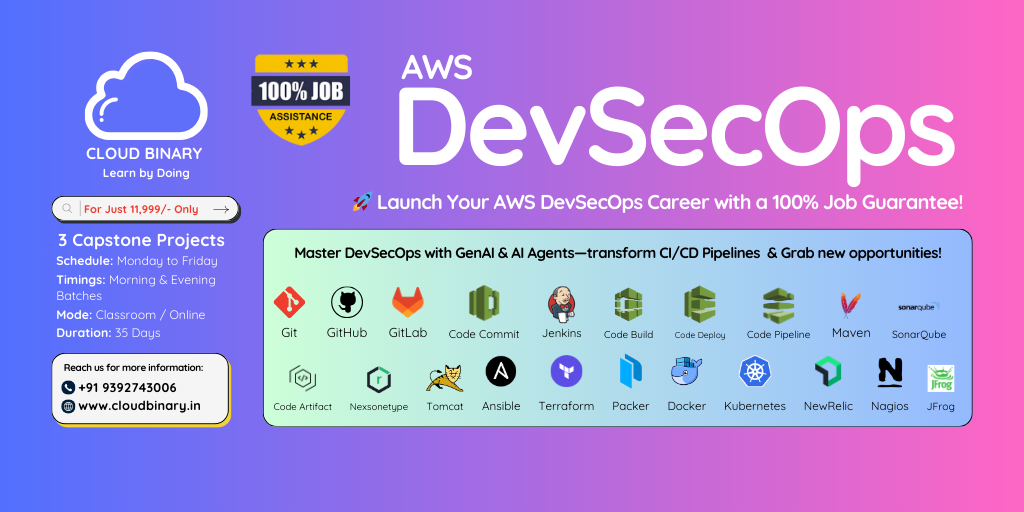
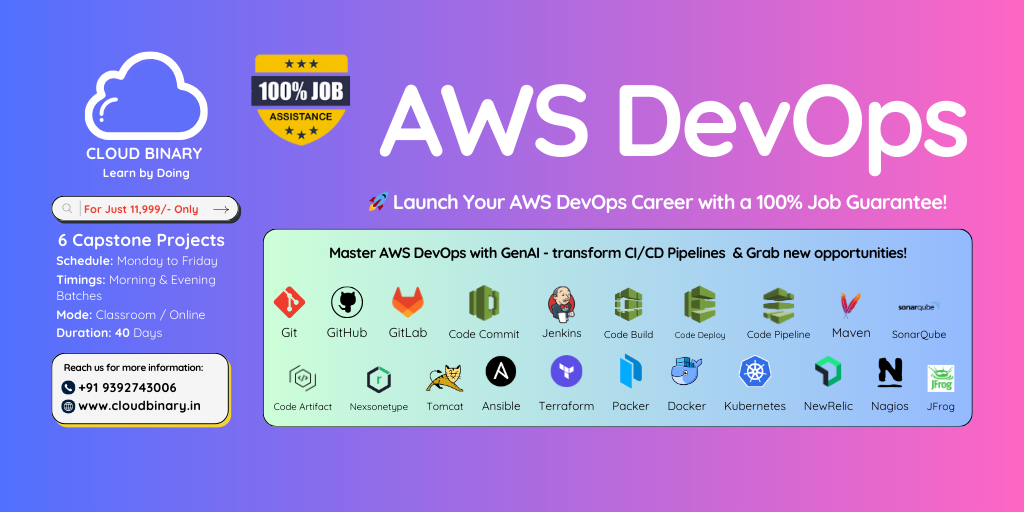
dev

Changed region(s): [[0.3438, 0.0938, 0.9688, 0.4375], [0.2812, 0.4688, 0.9375, 0.5312], [0.0938, 0.625, 0.1562, 0.6562]]

diff --git a/src/app/modules/public-ui/components/home-page-new/page1.html b/src/app/modules/public-ui/components/home-page-new/page1.html
@@ -25,22 +25,22 @@ background: url('assets/hybrid-learning/bg3.png') center center / cover no-repea
 
         <!-- Container 2 with Message -->
         <div class="container">
-            <!-- <h1>AWS DevOps Online Training Course for 9,999/-</h1><br> -->
+            <h1>AWS DevOps</h1><br>
             <!-- <h1>Skills. Connections. Success.</h1> -->
-            <h2>Welcome to the Data Age! 🚀</h2>
+            <!-- <h2>Welcome to the Data Age! 🚀</h2> -->
             <!-- <h3><strong style="color: orangered">30th March 2024, 10am IST</strong></h3> -->
-            <!-- <h1><strong style="color: orangered">Enroll Now For Just ₹9,999/-</strong></h1> -->
+            <h1><strong style="color: orangered">Enroll Now For Just ₹11,999/-</strong></h1>
             <ul>
                 <!-- <p>Become an AWS Certified DevOps Engineer - Professional <strong style="color: orangered"> <b>in just 6 months!</b></strong> Earn certifications: Cloud Practitioner, AI Practitioner, SysOps Admin, Developer, Solutions Architect, Data Engineer, ML, Advanced Networking, and Security.</p> -->
                <br>
-               <p> It’s time to seize the opportunity to become a Data Analyst, master the art of speaking to data, and drive organizational growth through powerful data analysis. 
+               <!-- <p> It’s time to seize the opportunity to become a Data Analyst, master the art of speaking to data, and drive organizational growth through powerful data analysis. 
                 <br>
                 <br>
-                Let’s turn insights into impact—your journey starts here!</p>
+                Let’s turn insights into impact—your journey starts here!</p> -->
                 <!-- <p>Become a Cloud Administrator, Developer, Architect, DevOps, MLOps, AI, Security, or Network Engineer in just 3 months.</p> -->
 
                 <!-- <li>Enroll in our AWS DevOps Online Training Course today for a streamlined pathway to success!</li> -->
-                <!-- <p>Our Classroom & Online cloud-skills training program will help you launch your career as a Cloud, DevSecOps, MLOps, AiOps, Engineer in as little as six months, regardless of your technical background</p> -->
+                <p>Our Online cloud-skills training program will help you launch your career as a Cloud, DevSecOps, MLOps, AiOps, Engineer in as little as six months, regardless of your technical background</p>
                 <!-- <li>Our virtual cloud-skills training program will help you launch your career as a Cloud, DevOps, MLOps Engineer in as little as six months, regardless of your technical background.</li> -->
               </ul>
             <div class="button-container">

diff --git a/src/app/components/footer-col/footer-col.component.html b/src/app/components/footer-col/footer-col.component.html
@@ -83,16 +83,16 @@ What is Generative AI?<br>
               <a  [routerLink]="['/aws']" routerLinkActive="router-link-active">AWS</a>
             </li>
             <li class="menu-item menu-item-type-taxonomy menu-item-object-category">
-              <a  [routerLink]="['/devsecops']" routerLinkActive="router-link-active">DevSecOps</a>
+              <a  [routerLink]="['/devsecops']" routerLinkActive="router-link-active">DevOps</a>
             </li>
             
-            <li class="menu-item menu-item-type-taxonomy menu-item-object-category">
+            <!-- <li class="menu-item menu-item-type-taxonomy menu-item-object-category">
               <a  [routerLink]="['/data-analyst']" routerLinkActive="router-link-active">Data Analyst</a>
-            </li>
-            <li class="menu-item menu-item-type-post_type menu-item-object-page">
+            </li> -->
+            <!-- <li class="menu-item menu-item-type-post_type menu-item-object-page"> -->
               <!-- <a [routerLink]="['/contactus']" routerLinkActive="router-link-active">Contact</a> -->
-              <a [routerLink]="['/data-science']" routerLinkActive="router-link-active" style="color: #38b6ff;">Data Science</a>
-            </li>
+              <!-- <a [routerLink]="['/data-science']" routerLinkActive="router-link-active" style="color: #38b6ff;">Data Science</a>
+            </li> -->
             <!-- <li class="menu-item menu-item-type-post_type menu-item-object-page">
               <a href="#">Careers</a>
             </li> -->
@@ -122,9 +122,9 @@ What is Generative AI?<br>
             <li class="menu-item menu-item-type-custom menu-item-object-custom">
 
               <a   [routerLink]="['/aws']" routerLinkActive="router-link-active">AWS |  </a>
-              <a   [routerLink]="['/devsecops']" routerLinkActive="router-link-active">DevSecOps |  </a>
-              <a   [routerLink]="['/data-analyst']" routerLinkActive="router-link-active" style="color: #38b6ff;">Data Analyst  | </a>
-              <a   [routerLink]="['/data-science']" routerLinkActive="router-link-active" style="color: #38b6ff;">Data Science</a>
+              <a   [routerLink]="['/devsecops']" routerLinkActive="router-link-active">DevOps</a>
+              <!-- <a   [routerLink]="['/data-analyst']" routerLinkActive="router-link-active" style="color: #38b6ff;">Data Analyst  | </a>
+              <a   [routerLink]="['/data-science']" routerLinkActive="router-link-active" style="color: #38b6ff;">Data Science</a> -->
               
             </li>
        <!--     <li class="menu-item menu-item-type-custom menu-item-object-custom">

diff --git a/src/app/app.component.html b/src/app/app.component.html
@@ -59,7 +59,7 @@
     <div class="header-right">
       <a routerLink="/home">Home </a>
       <a [routerLink]="['/aws']" routerLinkActive="router-link-active">AWS</a>
-      <a [routerLink]="['/devsecops']" routerLinkActive="router-link-active">DevSecOps</a>
+      <a [routerLink]="['/devsecops']" routerLinkActive="router-link-active">DevOps</a>
       <!-- <a [routerLink]="['/azure-devops']" routerLinkActive="router-link-active">Azure DevOps</a> -->
       <!-- <a [routerLink]="['/data-analyst']" routerLinkActive="router-link-active">Data Analyst </a>
       <a [routerLink]="['/data-science']" routerLinkActive="router-link-active">Data Science </a> -->
@@ -92,7 +92,7 @@
   <a routerLink="/home" (click)="closeSidenav()">Home</a>
   <!-- <a [routerLink]="['/aws']" routerLinkActive="router-link-active" (click)="closeSidenav()">AWS</a> -->
   <a routerLink="/aws" (click)="closeSidenav()">AWS</a>
-  <a routerLink="/devsecops" (click)="closeSidenav()">DevSecOps</a>
+  <a routerLink="/devsecops" (click)="closeSidenav()">DevOps</a>
   <!-- <a routerLink="/azure-devops" (click)="closeSidenav()">Azure DevOps</a> -->
   <!-- <a routerLink="/data-analyst" (click)="closeSidenav()">Data Analyst </a>
   <a routerLink="/data-science" (click)="closeSidenav()">Data Science </a> -->

diff --git a/src/app/modules/public-ui/Pages/devsecops/devsecops.component.html b/src/app/modules/public-ui/Pages/devsecops/devsecops.component.html
@@ -74,7 +74,7 @@
       <div class="left-column">
         <h1 style="    font-size: xx-large;
         /* font-family: system-ui !important; */
-        font-family: AmazonEmberBold,Helvetica Neue Bold,Helvetica Neue,Helvetica,Arial,sans-serif ; color: #172342;">DevSecOps Classroom & Online Training in Hyderabad</h1> <br>
+        font-family: AmazonEmberBold,Helvetica Neue Bold,Helvetica Neue,Helvetica,Arial,sans-serif ; color: #172342;">DevOps Online Training in Hyderabad</h1> <br>
   
   <div class="fullnode salcebrdr">
     <div>Prompt Engineering with ChatGPT</div>

diff --git a/src/app/modules/public-ui/Pages/aws-course/aws-course.component.html b/src/app/modules/public-ui/Pages/aws-course/aws-course.component.html
@@ -69,7 +69,7 @@
     <div class="left-column">
       <h1 style="    font-size: xx-large;
       /* font-family: system-ui !important; */
-      font-family: AmazonEmberBold,Helvetica Neue Bold,Helvetica Neue,Helvetica,Arial,sans-serif ; color: #172342;">AWS Classroom & Online Training in Hyderabad</h1> <br>
+      font-family: AmazonEmberBold,Helvetica Neue Bold,Helvetica Neue,Helvetica,Arial,sans-serif ; color: #172342;">AWS Online Training in Hyderabad</h1> <br>
 
 <div class="fullnode salcebrdr">
   <div>Prompt Engineering with ChatGPT</div>

diff --git a/src/app/modules/public-ui/components/we-offer/landing-banner3-awsdevops/landing-banner3.html b/src/app/modules/public-ui/components/we-offer/landing-banner3-awsdevops/landing-banner3.html
@@ -32,7 +32,7 @@
         </div>
         <div class="content">
           <span></span>
-          <h3>AWS DevSecOps - Free Guidance</h3>
+          <h3>AWS DevOps - Free Guidance</h3>
           <p>Mar 28, 2025 8 AM IST</p>
           <a href="https://us02web.zoom.us/meeting/register/pfMtCZVSR7aHH36VnegBcA" class="btn">Register
             Now</a>

diff --git a/src/app/modules/public-ui/components/we-offer/landing-banner5-aws/landing-banner5-aws.html b/src/app/modules/public-ui/components/we-offer/landing-banner5-aws/landing-banner5-aws.html
@@ -13,7 +13,7 @@
       </div>
       <div class="content">
         <span></span>
-        <h3>AWS DevSecOps - Free Guidance</h3>
+        <h3>AWS DevOps - Free Guidance</h3>
         <p>Mar 28, 2025 8 AM IST</p>
         <a href="https://us02web.zoom.us/meeting/register/pfMtCZVSR7aHH36VnegBcA" class="btn">Register
           Now</a>
